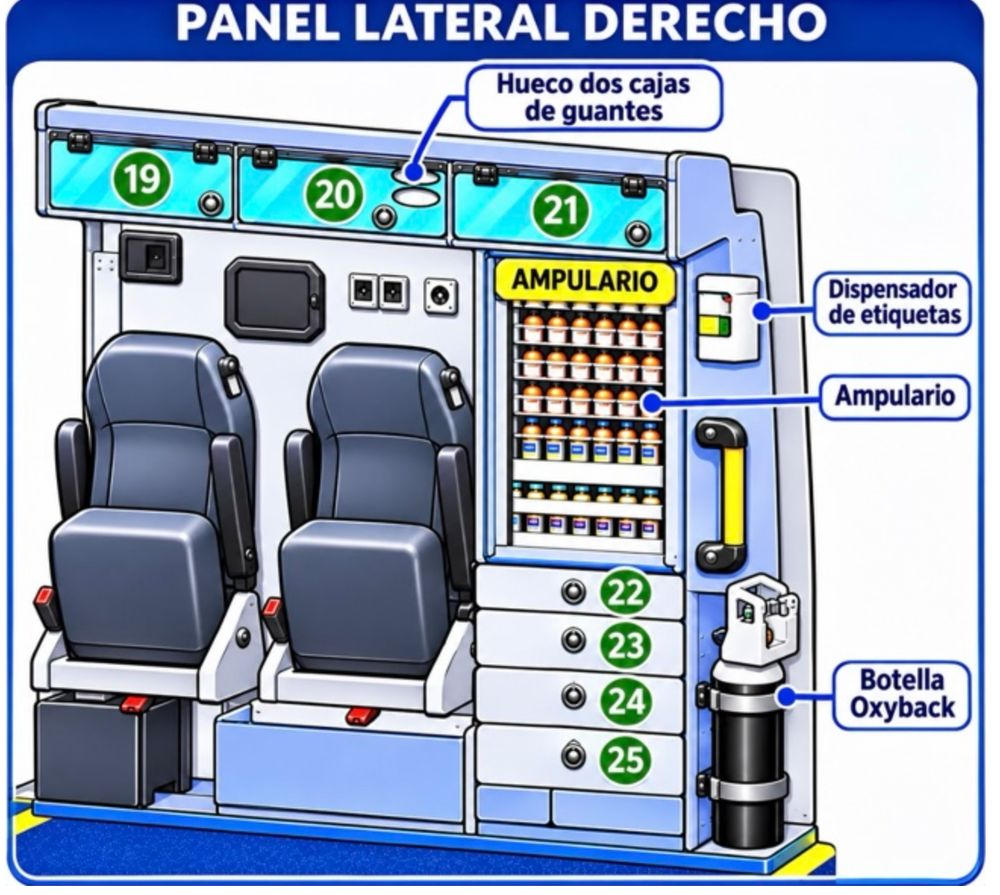
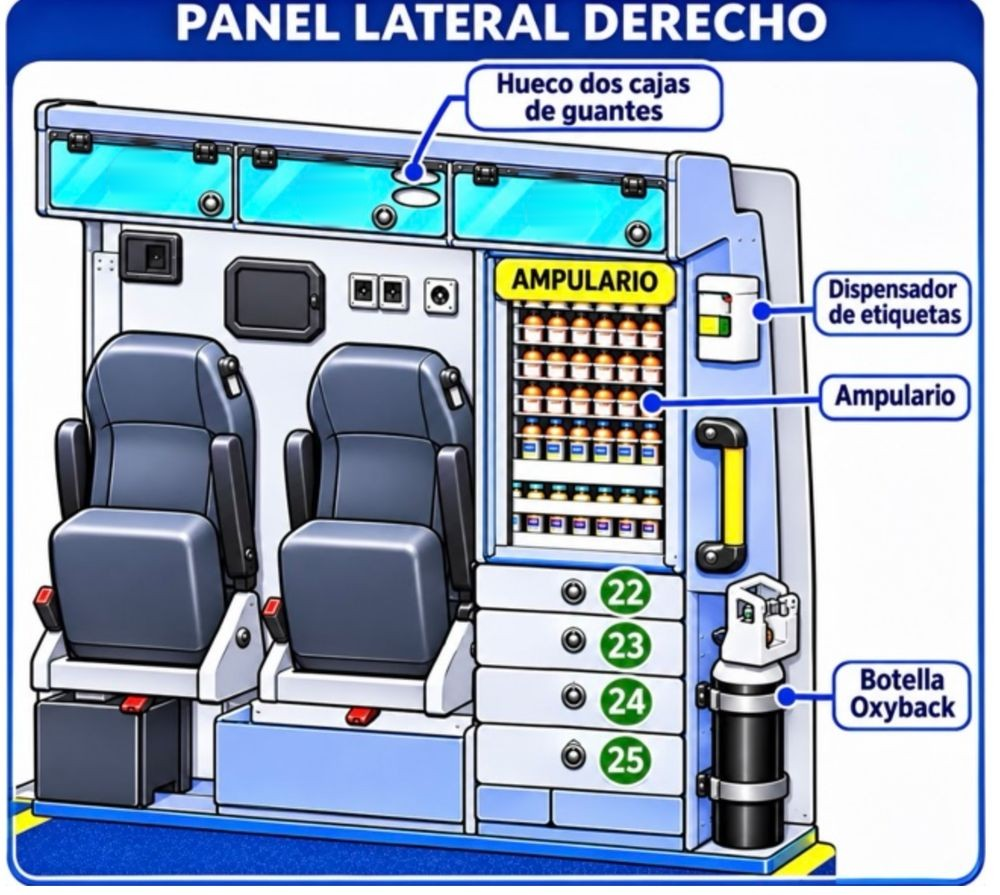
v3.27: nichos 19, 20 y 21 reasignados (triaje, nevera y calientasueros, Lucas); quitados los números 19-21 del panel derecho
Claude-Session: https://claude.ai/code/session_01GF2cYnXv2H7Y9YTqWmE5m6

Changed region(s): [[0.279, 0.181, 0.372, 0.2715], [0.093, 0.1508, 0.186, 0.2413], [0.527, 0.181, 0.62, 0.2715]]

diff --git a/index.html b/index.html
@@ -228,15 +228,15 @@ noscript{display:block;padding:16px}
   16,
   17,
   18,
+  19,
+  20,
+  21,
   22,
   23,
   24,
   25,
   26,
-  27,
-  28,
-  29,
-  30
+  27
  ],
  "equipo": [
   {
@@ -914,6 +914,108 @@ noscript{display:block;padding:16px}
    }
   },
   {
+   "n": 19,
+   "p": "I",
+   "nombre": "Nicho 19 · Maletín de triaje",
+   "asoc": [],
+   "omitir": [
+    "cad"
+   ],
+   "extra": [
+    {
+     "id": "tar",
+     "t": "Hay al menos 10 tarjetas de triaje",
+     "ok": "Hecho",
+     "motivos": [
+      "Hay menos de 10 tarjetas",
+      "No hay stock en el almacén"
+     ],
+     "notaLbl": "Incidencia: cuántas tarjetas hay (opcional)",
+     "ph": "Número de tarjetas que hay"
+    }
+   ],
+   "box": {
+    "l": 12.4,
+    "t": 74.4,
+    "w": 20.2,
+    "h": 18.0
+   },
+   "cap": "Panel lateral izquierdo · mochila IMV (incidente con múltiples víctimas), el maletín de triaje, abajo a la izquierda. Revisa la mochila que parpadea.",
+   "titulo": "Nicho 19",
+   "sub": "Maletín de triaje"
+  },
+  {
+   "n": 20,
+   "p": "A",
+   "nombre": "Nicho 20 · Nevera y calientasueros",
+   "asoc": [
+    "Calientasueros"
+   ],
+   "et": "la nevera y el calientasueros",
+   "corto": "Nicho 20 · Nevera y calientasueros",
+   "box": {
+    "l": 16.3,
+    "t": 74.2,
+    "w": 20.7,
+    "h": 21.2
+   },
+   "cap": "Pared A · la nevera y el calientasueros, abajo a la izquierda. Revisa la zona que parpadea.",
+   "ov": {
+    "cad": {
+     "motivos": [
+      "No funciona, defectuoso o no enciende",
+      "Material caducado",
+      "Material deteriorado o roto",
+      "Falta material (reponer)",
+      "No hay stock en el almacén"
+     ]
+    },
+    "lim": {
+     "t": "Limpieza de la nevera y del calientasueros realizada"
+    }
+   },
+   "titulo": "Nicho 20",
+   "sub": "Nevera y calientasueros"
+  },
+  {
+   "n": 21,
+   "p": "I",
+   "nombre": "Nicho 21 · Lucas",
+   "asoc": [],
+   "et": "el Lucas",
+   "box": {
+    "l": 32.6,
+    "t": 51.8,
+    "w": 12.8,
+    "h": 27.8
+   },
+   "cap": "Panel lateral izquierdo · el Lucas, a la derecha de la mochila pediátrica (debajo del aspirador de secreciones y de la bomba de perfusión). Revisa la zona que parpadea.",
+   "ov": {
+    "cad": {
+     "t": "Material revisado: caducidades, baterías y fungible",
+     "motivos": [
+      "Sin batería",
+      "No funciona, defectuoso o no enciende",
+      "No hay repuesto de fungible",
+      "Material caducado",
+      "Material deteriorado o roto",
+      "Falta material (reponer)",
+      "No hay stock en el almacén"
+     ],
+     "notaLbl": "Incidencia (obligatorio): qué material o equipo y qué le ocurre",
+     "ph": "Qué material o equipo del Lucas y qué le ocurre"
+    },
+    "lim": {
+     "t": "Limpieza del Lucas realizada"
+    },
+    "rec": {
+     "t": "Lucas y accesorios recolocados exactamente como estaban"
+    }
+   },
+   "titulo": "Nicho 21",
+   "sub": "Lucas"
+  },
+  {
    "n": 22,
    "p": "D",
    "x": 62.6,
@@ -998,108 +1100,6 @@ noscript{display:block;padding:16px}
    "cap": "Panel lateral izquierdo · mochila pediátrica (maletín de pediatría y partos), abajo a la izquierda. Revisa la mochila que parpadea.",
    "titulo": "Nicho 27",
    "sub": "Maletín de pediatría y partos"
-  },
-  {
-   "n": 28,
-   "p": "I",
-   "nombre": "Nicho 28 · Maletín de triaje",
-   "asoc": [],
-   "omitir": [
-    "cad"
-   ],
-   "extra": [
-    {
-     "id": "tar",
-     "t": "Hay al menos 10 tarjetas de triaje",
-     "ok": "Hecho",
-     "motivos": [
-      "Hay menos de 10 tarjetas",
-      "No hay stock en el almacén"
-     ],
-     "notaLbl": "Incidencia: cuántas tarjetas hay (opcional)",
-     "ph": "Número de tarjetas que hay"
-    }
-   ],
-   "box": {
-    "l": 12.4,
-    "t": 74.4,
-    "w": 20.2,
-    "h": 18.0
-   },
-   "cap": "Panel lateral izquierdo · mochila IMV (incidente con múltiples víctimas), el maletín de triaje, abajo a la izquierda. Revisa la mochila que parpadea.",
-   "titulo": "Nicho 28",
-   "sub": "Maletín de triaje"
-  },
-  {
-   "n": 29,
-   "p": "A",
-   "nombre": "Nicho 29 · Nevera y calientasueros",
-   "asoc": [
-    "Calientasueros"
-   ],
-   "et": "la nevera y el calientasueros",
-   "corto": "Nicho 29 · Nevera y calientasueros",
-   "box": {
-    "l": 16.3,
-    "t": 74.2,
-    "w": 20.7,
-    "h": 21.2
-   },
-   "cap": "Pared A · la nevera y el calientasueros, abajo a la izquierda. Revisa la zona que parpadea.",
-   "ov": {
-    "cad": {
-     "motivos": [
-      "No funciona, defectuoso o no enciende",
-      "Material caducado",
-      "Material deteriorado o roto",
-      "Falta material (reponer)",
-      "No hay stock en el almacén"
-     ]
-    },
-    "lim": {
-     "t": "Limpieza de la nevera y del calientasueros realizada"
-    }
-   },
-   "titulo": "Nicho 29",
-   "sub": "Nevera y calientasueros"
-  },
-  {
-   "n": 30,
-   "p": "I",
-   "nombre": "Nicho 30 · Lucas",
-   "asoc": [],
-   "et": "el Lucas",
-   "box": {
-    "l": 32.6,
-    "t": 51.8,
-    "w": 12.8,
-    "h": 27.8
-   },
-   "cap": "Panel lateral izquierdo · el Lucas, a la derecha de la mochila pediátrica (debajo del aspirador de secreciones y de la bomba de perfusión). Revisa la zona que parpadea.",
-   "ov": {
-    "cad": {
-     "t": "Material revisado: caducidades, baterías y fungible",
-     "motivos": [
-      "Sin batería",
-      "No funciona, defectuoso o no enciende",
-      "No hay repuesto de fungible",
-      "Material caducado",
-      "Material deteriorado o roto",
-      "Falta material (reponer)",
-      "No hay stock en el almacén"
-     ],
-     "notaLbl": "Incidencia (obligatorio): qué material o equipo y qué le ocurre",
-     "ph": "Qué material o equipo del Lucas y qué le ocurre"
-    },
-    "lim": {
-     "t": "Limpieza del Lucas realizada"
-    },
-    "rec": {
-     "t": "Lucas y accesorios recolocados exactamente como estaban"
-    }
-   },
-   "titulo": "Nicho 30",
-   "sub": "Lucas"
   }
  ],
  "limpiezas": [
